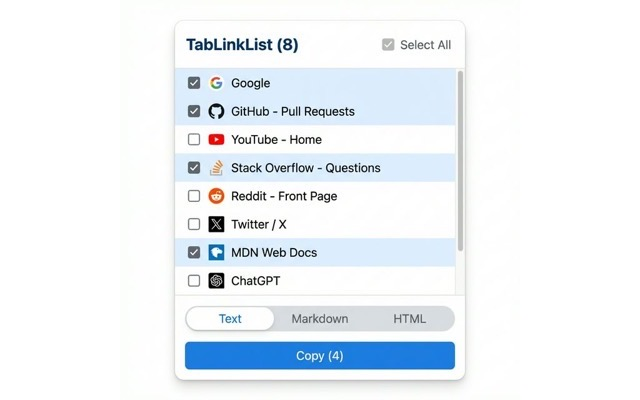
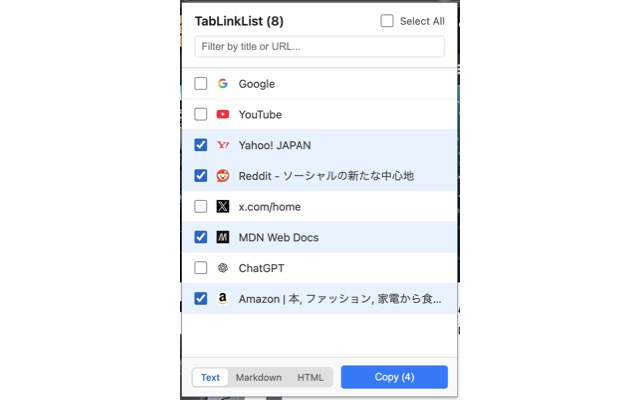
feat: implement tab filtering by title/URL and consolidate format selection with copy button into a unified bottom bar.

Changed region(s): [[0.25, 0.0, 0.75, 1.0]]

diff --git a/README.md b/README.md
@@ -12,6 +12,7 @@
 - 📋 **List all open tabs** — Displays every tab in the current window with its favicon and title.
 - ✅ **Smart default selection** — The current (active) tab is automatically pre-selected when the popup opens.
 - ☑ **Flexible selection** — Toggle individual tabs or use "Select All" to pick them all at once.
+- 🔍 **Filter tabs** — Type in the filter box to narrow the list by title or URL. Hidden tabs are automatically deselected.
 - 📝 **Multiple copy formats** — Choose how copied data is formatted:
   | Format | Output |
   |--------|--------|
@@ -54,8 +55,9 @@ Install directly from the [Chrome Web Store](https://chromewebstore.google.com/d
 
 1. Open the popup by clicking the **TabLinkList** icon in the Chrome toolbar.
 2. The current tab is pre-selected. Check or uncheck tabs as needed.
-3. Pick a copy format (**Text**, **Markdown**, or **HTML**).
-4. Click **Copy** — the selected tabs' titles and URLs are copied to your clipboard.
+3. Optionally type in the **filter box** to narrow the list by title or URL.
+4. Pick a copy format (**Text**, **Markdown**, or **HTML**) in the bottom bar.
+5. Click **Copy** — the selected tabs' titles and URLs are copied to your clipboard.
 
 ---
 
@@ -91,16 +93,16 @@ npm run lint
 ```
 src/
 ├── components/       # React UI components
-│   ├── Header.tsx        # Title bar + Select All checkbox
+│   ├── Header.tsx        # Title bar + Select All checkbox + filter input
 │   ├── TabList.tsx        # Scrollable list of tabs
 │   ├── TabItem.tsx        # Individual tab row
-│   ├── FormatSelector.tsx # Text / Markdown / HTML picker
-│   └── ActionButton.tsx   # Copy button with feedback
+│   └── BottomBar.tsx      # Format selector + Copy button (unified bar)
 ├── hooks/            # Custom React hooks
 │   ├── useTabs.ts         # Fetches tabs from Chrome API
 │   └── useSelection.ts    # Manages selected tab state
 ├── utils/            # Pure helper functions
 │   ├── format.ts          # Tab-to-string formatting
+│   ├── filter.ts          # Tab filtering by title / URL
 │   └── clipboard.ts       # Clipboard API wrapper
 └── popup/            # Extension popup entry point
     ├── index.html

diff --git a/CLAUDE.md b/CLAUDE.md
@@ -30,14 +30,17 @@ This is a Chrome Extension Manifest V3 popup built with React 19 + TypeScript + 
 **Data flow:**
 1. `useTabs` hook queries `chrome.tabs` API for all tabs in the current window; falls back to mock data when Chrome API is absent (dev server)
 2. `useSelection` hook manages a `Set<number>` of selected tab IDs
-3. `App.tsx` orchestrates state: auto-selects the active tab on load, computes "all selected" state, formats and copies on demand
-4. `formatTabs` in `src/utils/format.ts` handles the three output formats: `text`, `markdown`, `html`
+3. `App.tsx` orchestrates state: auto-selects the active tab on load, filters tabs by `filterText`, deselects hidden tabs, computes "all selected" state against filtered tabs, formats and copies on demand
+4. `filterTabs` in `src/utils/filter.ts` filters tabs by partial title/URL match (case-insensitive)
+5. `formatTabs` in `src/utils/format.ts` handles the three output formats: `text`, `markdown`, `html`
 
 **Key files:**
 - `manifest.json` — extension manifest (permissions: `tabs` only)
 - `src/popup/App.tsx` — root component, wires all hooks and components
 - `src/hooks/useTabs.ts` — Chrome API integration + mock fallback; defines the `Tab` type used throughout
-- `src/utils/format.ts` — pure formatting logic; only file with tests
+- `src/utils/filter.ts` — pure filter logic; tested in `filter.test.ts`
+- `src/utils/format.ts` — pure formatting logic; tested in `format.test.ts`
+- `src/components/BottomBar.tsx` — merged format selector + copy button in one row
 
 **Styling:** CSS Modules (`.module.css`) per component; global styles in `src/popup/App.css` and `src/popup/index.css`.
 

diff --git a/docs/requirements.md b/docs/requirements.md
@@ -21,18 +21,21 @@ TabLinkList is a Chrome extension that lists all open tabs in the current window
     - When the popup opens, the **current (active) tab is pre-selected** automatically.
     - All other tabs start unselected.
 
+- **Filter**:
+    - A text input in the header allows filtering tabs by partial match on title or URL (case-insensitive).
+    - Only matching tabs are shown in the list.
+    - Tabs hidden by the filter are automatically deselected.
+
 - **Selection Controls**:
-    - "Select All" checkbox in the header to toggle all tab selections at once.
+    - "Select All" checkbox in the header toggles selection for all currently visible (filtered) tabs.
     - Individual checkboxes for per-tab selection.
 
-- **Format Selection**:
-    - Users can choose the copy format before copying.
+- **Format Selection & Copy** (unified bottom bar):
+    - Users can choose the copy format and copy in a single bottom bar.
     - **Supported Formats**:
         - **Text**: `Title\nURL` (Default)
         - **Markdown**: `[Title](URL)`
         - **HTML**: `<a href="URL">Title</a>`
-
-- **Actions**:
     - "Copy" button displays the number of selected tabs (e.g., "Copy (3)").
     - Copies selected tabs to the clipboard in the chosen format.
     - Visual feedback on success (button changes to "Copied!").

diff --git a/tasks/todo.md b/tasks/todo.md
@@ -1,8 +1,6 @@
-# Todo: Publish extension v1.0.1
+# Todo: Update Extension Screenshots
 
-- [x] Update version numbers in `package.json` and `manifest.json`
-- [x] Build the production bundle
-- [x] Package the `dist/` folder into a ZIP file
-- [x] Upload to the Chrome Web Store (Manual)
-- [x] Commit and tag the release
-- [x] Capture lessons learned (v1.0.1)
+- [x] Generate promotional screenshot with given prompt
+- [x] Copy generated image to `public/screenshot.png`
+- [x] Scale to 400px height and pad to 640x400 with white background (`public/screenshot_640x400.jpg`)
+- [x] Verify image dimensions
